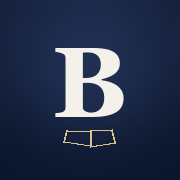
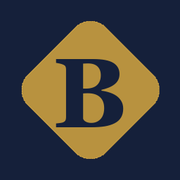
메뉴 '위대한 믿음' 통합 + 설교자 초상화(PD) + PNG 파비콘 + 기도 성구 KJV 재번역
- 상단 메뉴: 위대한 설교자/기도자 → '위대한 믿음' 한 메뉴로 통합(사이드바로 전환)
- 위대한 설교자 초상화: 공유저작물 스펄전(1885 멜빌)·에드워즈(프린스턴) 실제 초상 추가
- PNG/ICO 파비콘을 새 다이아몬드 마크로 재생성(16·32·180·ico) — 옛 책 아이콘 교체
- 기도 성구 ko 24개를 KJV+원어 분석·표준 맞춤법으로 자체 재번역(빌1:9·요17 범위 보정)

diff --git a/site-header.js b/site-header.js
@@ -14,8 +14,7 @@
     { label:'나에게 맞는 강의 찾기', href:'find.html' },
     { label:'커리큘럼', href:'curriculum.html' },
     { label:'칼럼', href:'column.html' },
-    { label:'위대한 설교자', href:'preachers.html' },
-    { label:'위대한 기도자', href:'prayers.html' },
+    { label:'위대한 믿음', href:'preachers.html' },
     { label:'질문·나눔·기도요청', href:'community.html' },
     { label:'강의 요청·건의함', href:'request.html' },
     { label:'자료실', href:'resources.html' },
